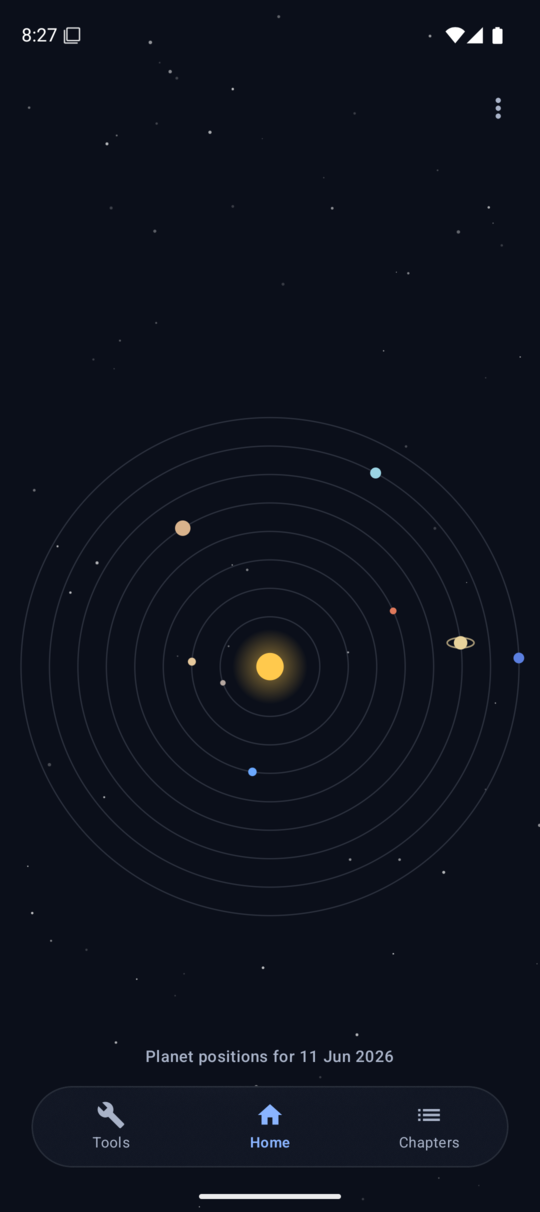
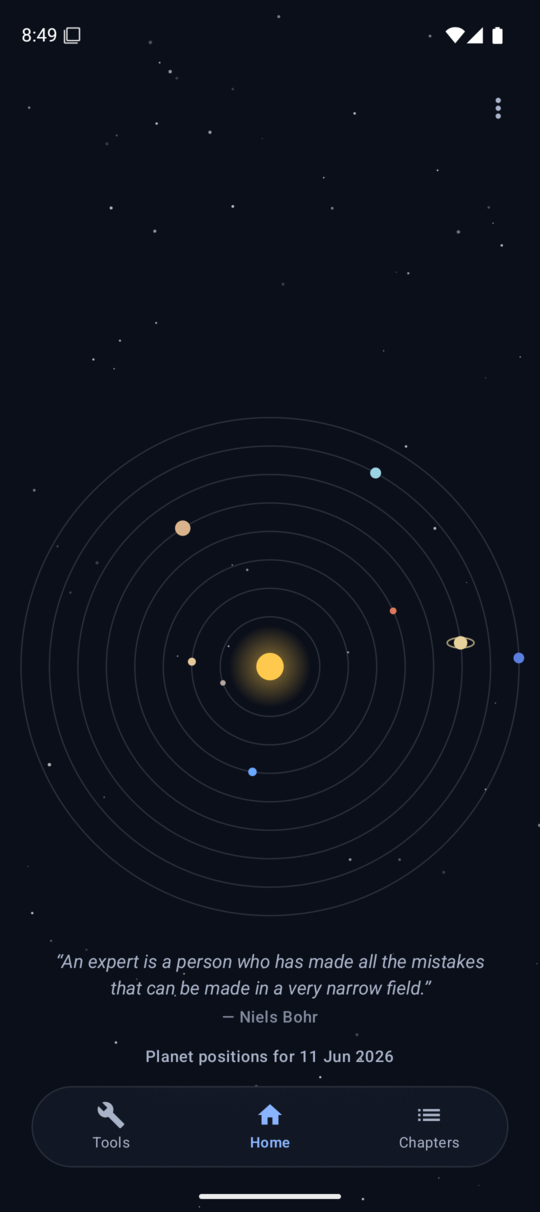
Add offline quote of the day to the home screen
A curated list of 50 physics quotes; the day's quote is selected
deterministically from the date (epoch day mod list size), so it
rotates at midnight with no network dependency — the app stays fully
offline. Rendered above the planet-positions caption. Status badge
flipped to stable; home screenshot refreshed.

Changed region(s): [[0.1778, 0.7632, 0.8593, 0.8548], [0.0593, 0.0, 0.1185, 0.0305]]

diff --git a/shared/src/commonMain/kotlin/io/github/claudiormalvino/physicalc/ui/PhysicsQuotes.kt b/shared/src/commonMain/kotlin/io/github/claudiormalvino/physicalc/ui/PhysicsQuotes.kt
@@ -1,0 +1,74 @@
+package io.github.claudiormalvino.physicalc.ui
+
+/*
+ * Quote of the day — fully offline.
+ *
+ * A curated list of physics quotes; the day's quote is picked deterministically
+ * from the date (epoch day modulo list size), so it rotates at UTC midnight,
+ * needs no network, and every user sees the same quote on the same day.
+ */
+
+data class PhysicsQuote(val text: String, val author: String)
+
+object PhysicsQuotes {
+
+    /** The quote for the calendar day containing [epochMillis] (UTC). */
+    fun forDay(epochMillis: Long): PhysicsQuote {
+        val epochDay = epochMillis / 86_400_000L
+        val index = ((epochDay % all.size) + all.size) % all.size // safe for pre-1970 too
+        return all[index.toInt()]
+    }
+
+    val all: List<PhysicsQuote> = listOf(
+        PhysicsQuote("What I cannot create, I do not understand.", "Richard Feynman"),
+        PhysicsQuote("The first principle is that you must not fool yourself — and you are the easiest person to fool.", "Richard Feynman"),
+        PhysicsQuote("I would rather have questions that can't be answered than answers that can't be questioned.", "Richard Feynman"),
+        PhysicsQuote("Study hard what interests you the most, in the most undisciplined, irreverent and original manner possible.", "Richard Feynman"),
+        PhysicsQuote("There's plenty of room at the bottom.", "Richard Feynman"),
+        PhysicsQuote("The most incomprehensible thing about the universe is that it is comprehensible.", "Albert Einstein"),
+        PhysicsQuote("Imagination is more important than knowledge.", "Albert Einstein"),
+        PhysicsQuote("The important thing is not to stop questioning. Curiosity has its own reason for existing.", "Albert Einstein"),
+        PhysicsQuote("Pure mathematics is, in its way, the poetry of logical ideas.", "Albert Einstein"),
+        PhysicsQuote("Life is like riding a bicycle. To keep your balance you must keep moving.", "Albert Einstein"),
+        PhysicsQuote("If I have seen further it is by standing on the shoulders of giants.", "Isaac Newton"),
+        PhysicsQuote("Nothing in life is to be feared, it is only to be understood.", "Marie Curie"),
+        PhysicsQuote("I am among those who think that science has great beauty.", "Marie Curie"),
+        PhysicsQuote("Be less curious about people and more curious about ideas.", "Marie Curie"),
+        PhysicsQuote("A scientist in his laboratory is also a child confronting natural phenomena that impress him as though they were fairy tales.", "Marie Curie"),
+        PhysicsQuote("An expert is a person who has made all the mistakes that can be made in a very narrow field.", "Niels Bohr"),
+        PhysicsQuote("Every great and deep difficulty bears in itself its own solution.", "Niels Bohr"),
+        PhysicsQuote("All science is either physics or stamp collecting.", "Ernest Rutherford"),
+        PhysicsQuote("The book of nature is written in the language of mathematics.", "Galileo Galilei"),
+        PhysicsQuote("I much prefer the sharpest criticism of a single intelligent man to the thoughtless approval of the masses.", "Johannes Kepler"),
+        PhysicsQuote("Nothing is too wonderful to be true, if it be consistent with the laws of nature.", "Michael Faraday"),
+        PhysicsQuote("Remember to look up at the stars and not down at your feet.", "Stephen Hawking"),
+        PhysicsQuote("However difficult life may seem, there is always something you can do and succeed at.", "Stephen Hawking"),
+        PhysicsQuote("It would not be much of a universe if it wasn't home to the people you love.", "Stephen Hawking"),
+        PhysicsQuote("We are a way for the cosmos to know itself.", "Carl Sagan"),
+        PhysicsQuote("If you wish to make an apple pie from scratch, you must first invent the universe.", "Carl Sagan"),
+        PhysicsQuote("The cosmos is within us. We are made of star-stuff.", "Carl Sagan"),
+        PhysicsQuote("What we observe is not nature itself, but nature exposed to our method of questioning.", "Werner Heisenberg"),
+        PhysicsQuote("A physical law must possess mathematical beauty.", "Paul Dirac"),
+        PhysicsQuote("Pick a flower on Earth and you move the farthest star.", "Paul Dirac"),
+        PhysicsQuote("That is not only not right; it is not even wrong.", "Wolfgang Pauli"),
+        PhysicsQuote("Where is everybody?", "Enrico Fermi"),
+        PhysicsQuote("Spacetime tells matter how to move; matter tells spacetime how to curve.", "John Archibald Wheeler"),
+        PhysicsQuote("As our island of knowledge grows, so does the shore of our ignorance.", "John Archibald Wheeler"),
+        PhysicsQuote("More is different.", "Philip W. Anderson"),
+        PhysicsQuote("Give me a place to stand and I will move the Earth.", "Archimedes"),
+        PhysicsQuote("Life need not be easy, provided only that it is not empty.", "Lise Meitner"),
+        PhysicsQuote("The black holes of nature are the most perfect macroscopic objects there are in the universe.", "Subrahmanyan Chandrasekhar"),
+        PhysicsQuote("Science cannot solve the ultimate mystery of nature, because in the last analysis we ourselves are a part of the mystery.", "Max Planck"),
+        PhysicsQuote("Science advances one funeral at a time.", "Max Planck"),
+        PhysicsQuote("The present is theirs; the future, for which I really worked, is mine.", "Nikola Tesla"),
+        PhysicsQuote("Science is built up of facts, as a house is of stones; but an accumulation of facts is no more a science than a heap of stones is a house.", "Henri Poincaré"),
+        PhysicsQuote("The important thing in science is not so much to obtain new facts as to discover new ways of thinking about them.", "William Lawrence Bragg"),
+        PhysicsQuote("Equipped with his five senses, man explores the universe around him and calls the adventure Science.", "Edwin Hubble"),
+        PhysicsQuote("Science progresses best when observations force us to alter our preconceptions.", "Vera Rubin"),
+        PhysicsQuote("The true logic of this world is in the calculus of probabilities.", "James Clerk Maxwell"),
+        PhysicsQuote("When you can measure what you are speaking about, and express it in numbers, you know something about it.", "Lord Kelvin"),
+        PhysicsQuote("It is difficult to say what is impossible, for the dream of yesterday is the hope of today and the reality of tomorrow.", "Robert H. Goddard"),
+        PhysicsQuote("The good thing about science is that it's true whether or not you believe in it.", "Neil deGrasse Tyson"),
+        PhysicsQuote("The universe is under no obligation to make sense to you.", "Neil deGrasse Tyson"),
+    )
+}

diff --git a/shared/src/commonMain/kotlin/io/github/claudiormalvino/physicalc/ui/HomeScreen.kt b/shared/src/commonMain/kotlin/io/github/claudiormalvino/physicalc/ui/HomeScreen.kt
@@ -34,7 +34,11 @@ import androidx.compose.ui.geometry.Size
 import androidx.compose.ui.graphics.Brush
 import androidx.compose.ui.graphics.Color
 import androidx.compose.ui.graphics.drawscope.Stroke
+import androidx.compose.foundation.layout.Spacer
+import androidx.compose.foundation.layout.height
+import androidx.compose.ui.text.font.FontStyle
 import androidx.compose.ui.text.font.FontWeight
+import androidx.compose.ui.text.style.TextAlign
 import androidx.compose.ui.unit.dp
 import io.github.claudiormalvino.physicalc.ui.solar.SolarSystemModel
 import kotlinx.coroutines.delay
@@ -201,14 +205,34 @@ fun HomeScreen(onSettingsClick: () -> Unit) {
             Icon(Icons.Default.MoreVert, contentDescription = "Settings", tint = colors.onSurfaceVariant)
         }
 
-        Text(
-            text = "Planet positions for ${SolarSystemModel.formatDate(epochMillis)}",
-            style = MaterialTheme.typography.labelMedium,
-            color = colors.onSurfaceVariant,
+        // Quote of the day (offline, deterministic by date) + the date caption.
+        Column(
             modifier = Modifier
                 .align(Alignment.BottomCenter)
                 .navigationBarsPadding()
-                .padding(bottom = 86.dp), // sits just above the floating glass bar
-        )
+                .padding(start = 32.dp, end = 32.dp, bottom = 86.dp), // above the glass bar
+            horizontalAlignment = Alignment.CenterHorizontally,
+        ) {
+            val quote = remember(epochMillis) { PhysicsQuotes.forDay(epochMillis) }
+            Text(
+                text = "\u201C${quote.text}\u201D",
+                style = MaterialTheme.typography.bodyMedium,
+                fontStyle = FontStyle.Italic,
+                textAlign = TextAlign.Center,
+                color = colors.onSurfaceVariant,
+            )
+            Spacer(Modifier.height(4.dp))
+            Text(
+                text = "\u2014 ${quote.author}",
+                style = MaterialTheme.typography.labelMedium,
+                color = colors.onSurfaceVariant.copy(alpha = 0.75f),
+            )
+            Spacer(Modifier.height(14.dp))
+            Text(
+                text = "Planet positions for ${SolarSystemModel.formatDate(epochMillis)}",
+                style = MaterialTheme.typography.labelMedium,
+                color = colors.onSurfaceVariant,
+            )
+        }
     }
 }

diff --git a/shared/src/commonTest/kotlin/io/github/claudiormalvino/physicalc/ui/PhysicsQuotesTest.kt b/shared/src/commonTest/kotlin/io/github/claudiormalvino/physicalc/ui/PhysicsQuotesTest.kt
@@ -1,0 +1,41 @@
+package io.github.claudiormalvino.physicalc.ui
+
+import kotlin.test.Test
+import kotlin.test.assertEquals
+import kotlin.test.assertNotEquals
+import kotlin.test.assertTrue
+
+class PhysicsQuotesTest {
+
+    private val dayMs = 86_400_000L
+
+    @Test
+    fun stableWithinADay() {
+        val morning = 20_615L * dayMs + 6 * 3_600_000L
+        val evening = 20_615L * dayMs + 23 * 3_600_000L
+        assertEquals(PhysicsQuotes.forDay(morning), PhysicsQuotes.forDay(evening))
+    }
+
+    @Test
+    fun changesAcrossDays() {
+        val today = PhysicsQuotes.forDay(20_615L * dayMs)
+        val tomorrow = PhysicsQuotes.forDay(20_616L * dayMs)
+        assertNotEquals(today, tomorrow)
+    }
+
+    @Test
+    fun cyclesThroughTheWholeList() {
+        val seen = (0 until PhysicsQuotes.all.size)
+            .map { PhysicsQuotes.forDay(it * dayMs) }
+            .toSet()
+        assertEquals(PhysicsQuotes.all.size, seen.size, "every quote should appear in a full cycle")
+    }
+
+    @Test
+    fun allQuotesAreWellFormed() {
+        for (q in PhysicsQuotes.all) {
+            assertTrue(q.text.isNotBlank() && q.author.isNotBlank())
+            assertTrue(q.text.length <= 160, "quote too long for the home screen: ${q.author}")
+        }
+    }
+}

diff --git a/README.md b/README.md
@@ -2,7 +2,7 @@
 
 An interactive physics reference and equation solver for first-year undergraduate students, built with Kotlin Multiplatform and Compose Multiplatform. One shared codebase runs natively on **Android**, **desktop** (Linux/macOS/Windows), and **iOS**.
 
-![Development Status](https://img.shields.io/badge/status-in%20development-yellow)
+![Development Status](https://img.shields.io/badge/status-stable-green)
 ![Kotlin](https://img.shields.io/badge/kotlin-2.4-blue)
 ![Compose Multiplatform](https://img.shields.io/badge/compose%20multiplatform-1.11-blue)
 ![License](https://img.shields.io/badge/license-MIT-blue)
